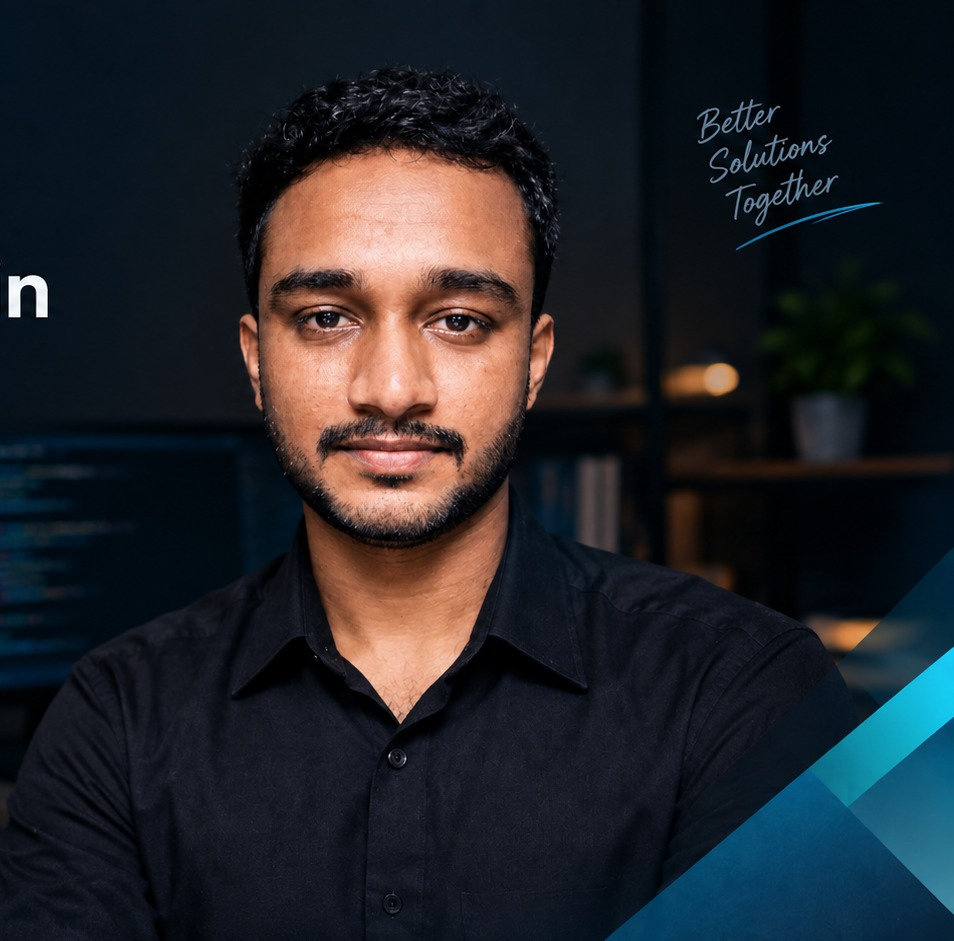
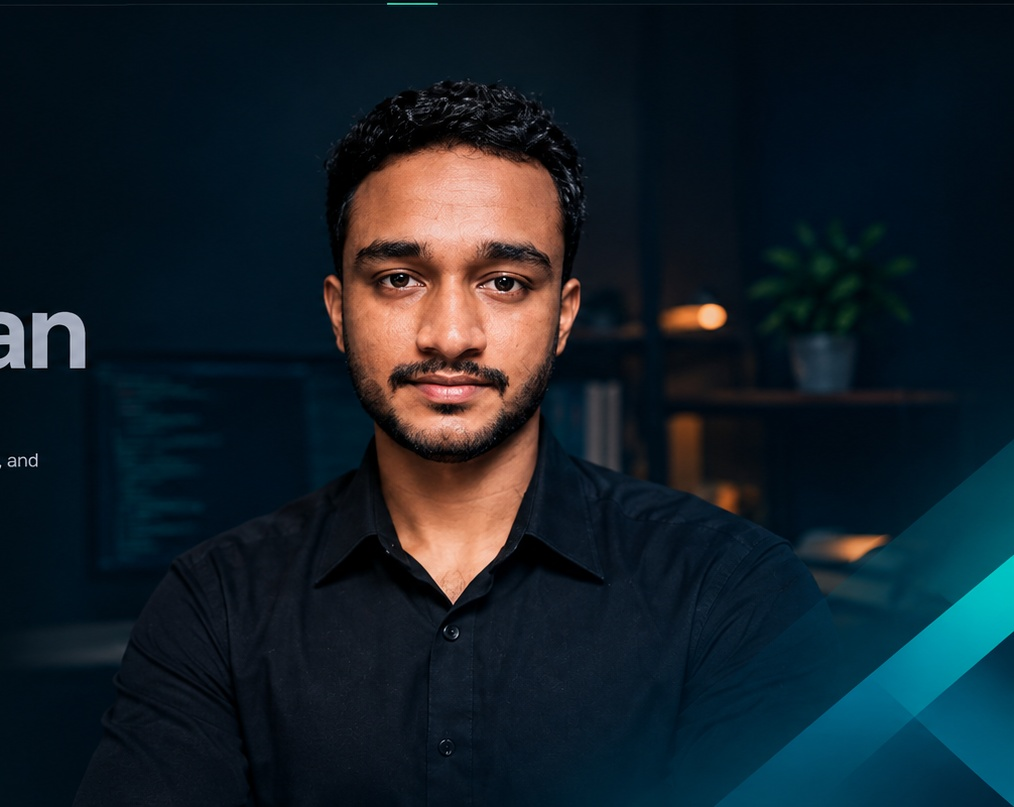
Add files via upload

diff --git a/index.html b/index.html
@@ -3,7 +3,7 @@
 <head>
   <meta charset="UTF-8">
   <meta name="viewport" content="width=device-width, initial-scale=1.0">
-  <meta name="description" content="Portfolio of MD. Nabil Hossain Zidan — Computer Engineer and IT Professional.">
+  <meta name="description" content="Portfolio of MD. Nabil Hossain Zidan — Computer Engineer and IT & Office Professional.">
   <meta name="theme-color" content="#0b0d12">
   <title>MD. Nabil Hossain Zidan | Portfolio</title>
   <style>
@@ -251,6 +251,23 @@ button { font: inherit; }
 }
 
 </style>
+
+<style id="final-clean-blended-hero">
+.hero-visual {
+  background: transparent !important;
+  overflow: hidden;
+  border: 0 !important;
+  box-shadow: none !important;
+}
+.hero-visual img {
+  border: 0 !important;
+  box-shadow: none !important;
+  border-radius: 0 !important;
+  -webkit-mask-image: linear-gradient(to right, transparent 0%, rgba(0,0,0,.12) 6%, #000 19%, #000 100%);
+  mask-image: linear-gradient(to right, transparent 0%, rgba(0,0,0,.12) 6%, #000 19%, #000 100%);
+}
+</style>
+
 </head>
 
 <body>
@@ -258,9 +275,9 @@ button { font: inherit; }
 
   <header class="site-header">
     <nav class="nav container" aria-label="Primary navigation">
-      <a class="brand" href="#home" aria-label="NH Zidan home">
-        <span class="brand-mark">NHZ</span>
-        <span>NH Zidan</span>
+      <a class="brand" href="#home" aria-label="Nabil Zidan home">
+        <span class="brand-mark">NZ</span>
+        <span>Nabil Zidan</span>
       </a>
 
       <button class="menu-toggle" type="button" aria-expanded="false" aria-controls="nav-links">
@@ -282,7 +299,7 @@ button { font: inherit; }
     <section class="hero container" id="home">
       <div class="hero-copy reveal">
         <p class="eyebrow"><span class="dot"></span> Build · Learn · Grow</p>
-        <h1>MD. Nabil Hossain<br><span>Zidan</span></h1>
+        <h1>MD. Nabil<br><span>Hossain Zidan</span></h1>
         <p class="hero-role">Computer Engineer <b>·</b> IT &amp; Office Professional</p>
         <p class="hero-text">
           Building practical solutions with a focus on technology, organization,
@@ -303,11 +320,11 @@ button { font: inherit; }
         <div class="hero-image">
           <img src="hero-portrait.jpg" alt="Professional portrait of MD. Nabil Hossain Zidan">
           <div class="hero-image-label">
-            <span>NHZ</span>
+            <span>NZ</span>
             <small>COMPUTER ENGINEER</small>
           </div>
         </div>
-        <div class="hero-note">Better<br><em>Solutions Together</em></div>
+        
       </div>
     </section>
 

diff --git a/README.md b/README.md
@@ -1,12 +1,10 @@
 # MD. Nabil Hossain Zidan — Portfolio
 
-A rebuilt, responsive personal portfolio for GitHub Pages.
+A real responsive portfolio with live HTML sections and a custom hero portrait derived from the supplied cinematic portfolio artwork.
 
-## Files
-- `index.html` — page structure and content
-- `style.css` — responsive visual design
-- `script.js` — mobile navigation, reveal animations, and current year
-- `MD_Nabil_Hossain_Zidan_CV.pdf` — downloadable CV
+Upload these files to the root of `NHZidan.github.io`:
+- `index.html`
+- `hero-portrait.jpg`
+- `MD_Nabil_Hossain_Zidan_CV.pdf`
 
-## Deploy
-Upload these files to the root of the `NHZidan.github.io` repository. GitHub Pages can then serve `index.html` from the repository root.
+The page contains the full interactive portfolio; the hero artwork is used as the visual portrait, not as a screenshot of the entire page.
